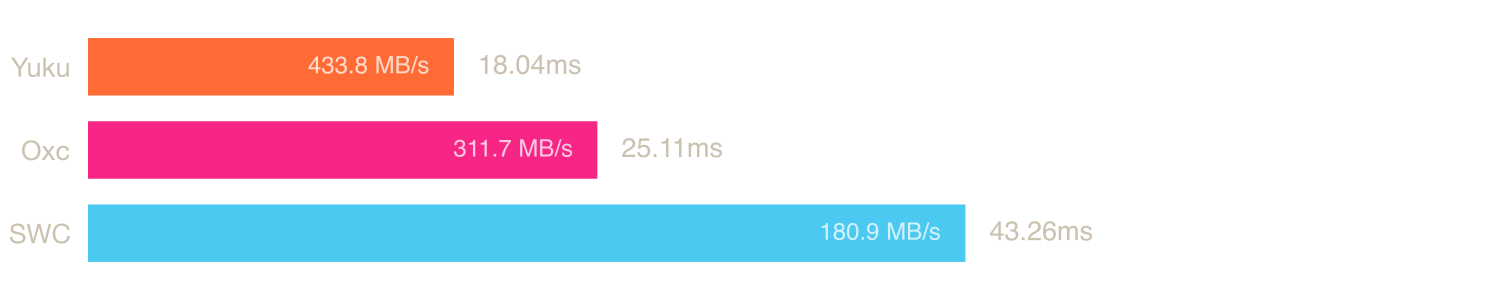
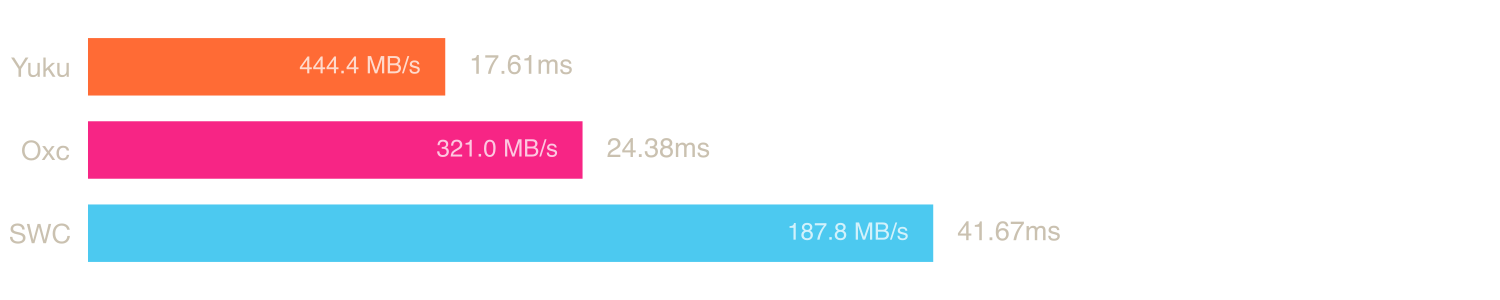
update parsers

Changed region(s): [[0.5213, 0.66, 0.736, 0.87], [0.276, 0.39, 0.4907, 0.6], [0.184, 0.12, 0.3987, 0.33]]

diff --git a/README.md b/README.md
@@ -41,9 +41,9 @@ An extensible Rust-based platform for compiling and bundling JavaScript and Type
 
 | Parser | Median | Min | p99 | Relative |
 |--------|--------|-----|-----|----------|
-| Yuku | 18.04 ms | 17.97 ms | 21.10 ms | 1.00× |
-| Oxc | 25.11 ms | 24.51 ms | 31.80 ms | 1.39× |
-| SWC | 43.26 ms | 42.57 ms | 47.32 ms | 2.40× |
+| Yuku | 17.61 ms | 16.69 ms | 18.20 ms | 1.00× |
+| Oxc | 24.38 ms | 24.10 ms | 26.07 ms | 1.38× |
+| SWC | 41.67 ms | 41.00 ms | 42.85 ms | 2.37× |
 
 ### [checker.ts](https://raw.githubusercontent.com/yuku-toolchain/parser-benchmark-files/refs/heads/main/checker.ts)
 
@@ -53,9 +53,9 @@ An extensible Rust-based platform for compiling and bundling JavaScript and Type
 
 | Parser | Median | Min | p99 | Relative |
 |--------|--------|-----|-----|----------|
-| Yuku | 6.12 ms | 6.07 ms | 8.85 ms | 1.00× |
-| Oxc | 7.99 ms | 7.93 ms | 8.52 ms | 1.30× |
-| SWC | 14.18 ms | 13.76 ms | 16.04 ms | 2.32× |
+| Yuku | 6.09 ms | 5.78 ms | 6.19 ms | 1.00× |
+| Oxc | 7.85 ms | 7.80 ms | 8.03 ms | 1.29× |
+| SWC | 13.40 ms | 13.15 ms | 14.09 ms | 2.20× |
 
 ### [lib.dom.d.ts](https://raw.githubusercontent.com/yuku-toolchain/parser-benchmark-files/refs/heads/main/lib.dom.d.ts)
 
@@ -65,9 +65,9 @@ An extensible Rust-based platform for compiling and bundling JavaScript and Type
 
 | Parser | Median | Min | p99 | Relative |
 |--------|--------|-----|-----|----------|
-| Oxc | 2.35 ms | 2.32 ms | 2.49 ms | 1.00× |
-| Yuku | 2.36 ms | 2.30 ms | 5.66 ms | 1.01× |
-| SWC | 4.92 ms | 4.82 ms | 5.23 ms | 2.09× |
+| Yuku | 2.28 ms | 2.15 ms | 2.33 ms | 1.00× |
+| Oxc | 2.33 ms | 2.29 ms | 2.49 ms | 1.02× |
+| SWC | 4.84 ms | 4.75 ms | 5.25 ms | 2.12× |
 
 ### [react.js](https://raw.githubusercontent.com/yuku-toolchain/parser-benchmark-files/refs/heads/main/react.js)
 
@@ -77,9 +77,9 @@ An extensible Rust-based platform for compiling and bundling JavaScript and Type
 
 | Parser | Median | Min | p99 | Relative |
 |--------|--------|-----|-----|----------|
-| Yuku | 0.11 ms | 0.11 ms | 0.15 ms | 1.00× |
-| Oxc | 0.16 ms | 0.16 ms | 0.17 ms | 1.47× |
-| SWC | 0.29 ms | 0.28 ms | 0.36 ms | 2.60× |
+| Yuku | 0.11 ms | 0.11 ms | 0.11 ms | 1.00× |
+| Oxc | 0.16 ms | 0.16 ms | 0.18 ms | 1.50× |
+| SWC | 0.29 ms | 0.27 ms | 0.41 ms | 2.68× |
 
 ## Semantic
 
@@ -95,8 +95,8 @@ The benchmarks below measure parsing followed by this additional pass, which bui
 
 | Parser | Median | Min | p99 | Relative |
 |--------|--------|-----|-----|----------|
-| Yuku + Semantic | 44.21 ms | 43.40 ms | 58.75 ms | 1.00× |
-| Oxc + Semantic | 56.34 ms | 55.20 ms | 66.79 ms | 1.27× |
+| Yuku + Semantic | 42.62 ms | 41.22 ms | 44.04 ms | 1.00× |
+| Oxc + Semantic | 54.73 ms | 53.89 ms | 56.92 ms | 1.28× |
 
 ### [checker.ts](https://raw.githubusercontent.com/yuku-toolchain/parser-benchmark-files/refs/heads/main/checker.ts)
 
@@ -104,8 +104,8 @@ The benchmarks below measure parsing followed by this additional pass, which bui
 
 | Parser | Median | Min | p99 | Relative |
 |--------|--------|-----|-----|----------|
-| Yuku + Semantic | 15.88 ms | 15.55 ms | 23.06 ms | 1.00× |
-| Oxc + Semantic | 18.58 ms | 18.35 ms | 19.67 ms | 1.17× |
+| Yuku + Semantic | 15.33 ms | 14.96 ms | 16.96 ms | 1.00× |
+| Oxc + Semantic | 18.17 ms | 18.02 ms | 18.65 ms | 1.19× |
 
 ### [lib.dom.d.ts](https://raw.githubusercontent.com/yuku-toolchain/parser-benchmark-files/refs/heads/main/lib.dom.d.ts)
 
@@ -113,8 +113,8 @@ The benchmarks below measure parsing followed by this additional pass, which bui
 
 | Parser | Median | Min | p99 | Relative |
 |--------|--------|-----|-----|----------|
-| Yuku + Semantic | 4.72 ms | 4.43 ms | 13.02 ms | 1.00× |
-| Oxc + Semantic | 4.76 ms | 4.70 ms | 5.69 ms | 1.01× |
+| Yuku + Semantic | 4.34 ms | 4.25 ms | 4.84 ms | 1.00× |
+| Oxc + Semantic | 4.62 ms | 4.54 ms | 5.24 ms | 1.06× |
 
 ### [react.js](https://raw.githubusercontent.com/yuku-toolchain/parser-benchmark-files/refs/heads/main/react.js)
 
@@ -122,8 +122,8 @@ The benchmarks below measure parsing followed by this additional pass, which bui
 
 | Parser | Median | Min | p99 | Relative |
 |--------|--------|-----|-----|----------|
-| Yuku + Semantic | 0.27 ms | 0.27 ms | 0.33 ms | 1.00× |
-| Oxc + Semantic | 0.35 ms | 0.35 ms | 0.44 ms | 1.29× |
+| Yuku + Semantic | 0.27 ms | 0.25 ms | 0.32 ms | 1.00× |
+| Oxc + Semantic | 0.35 ms | 0.34 ms | 0.37 ms | 1.30× |
 
 ## Run Benchmarks
 
